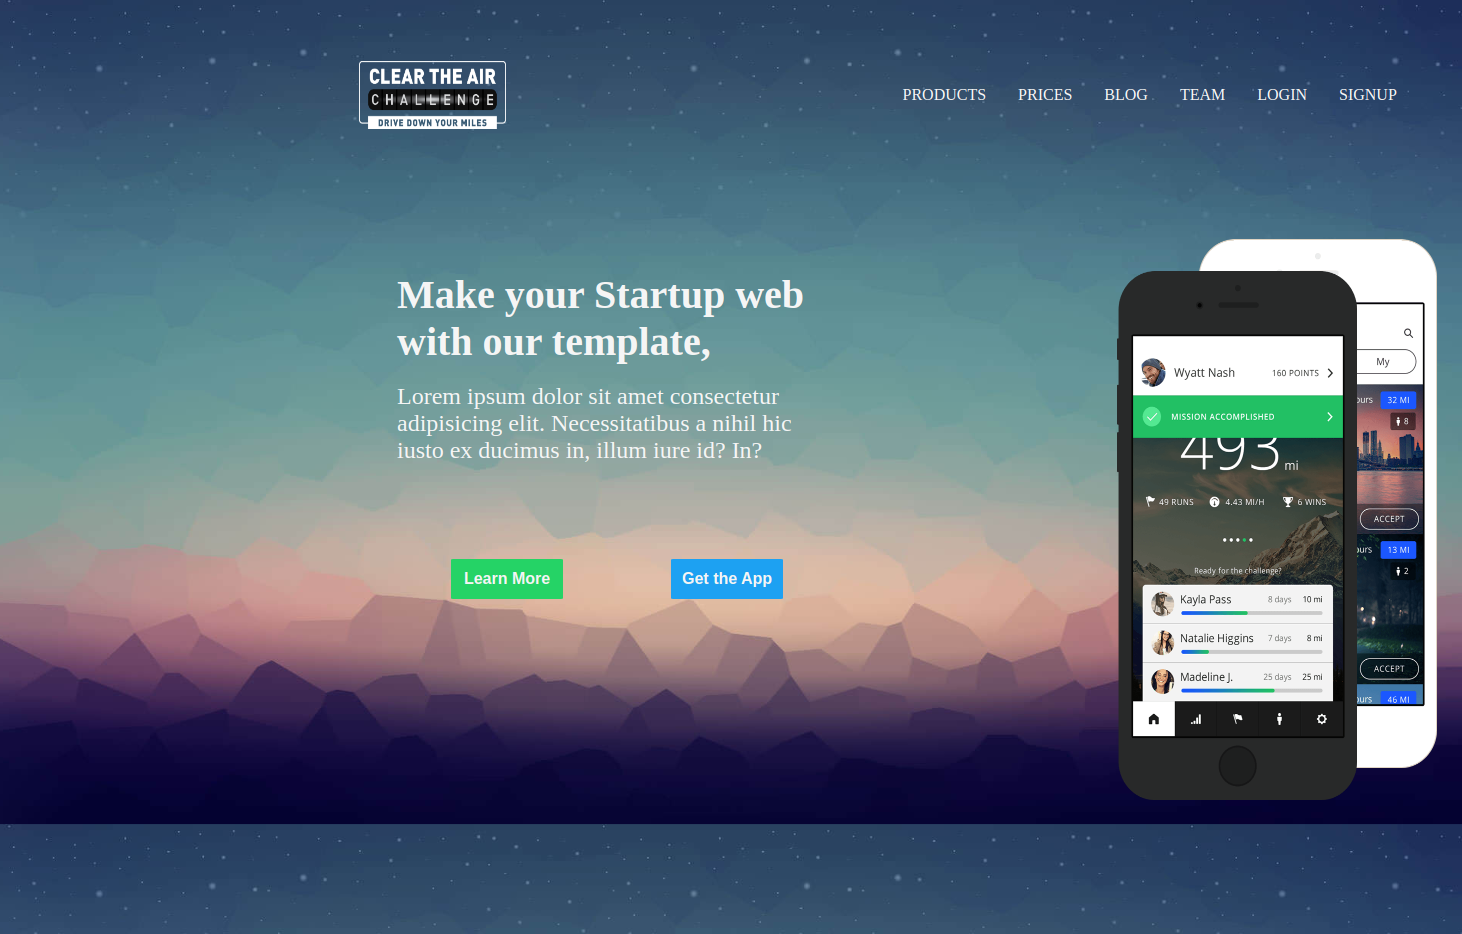
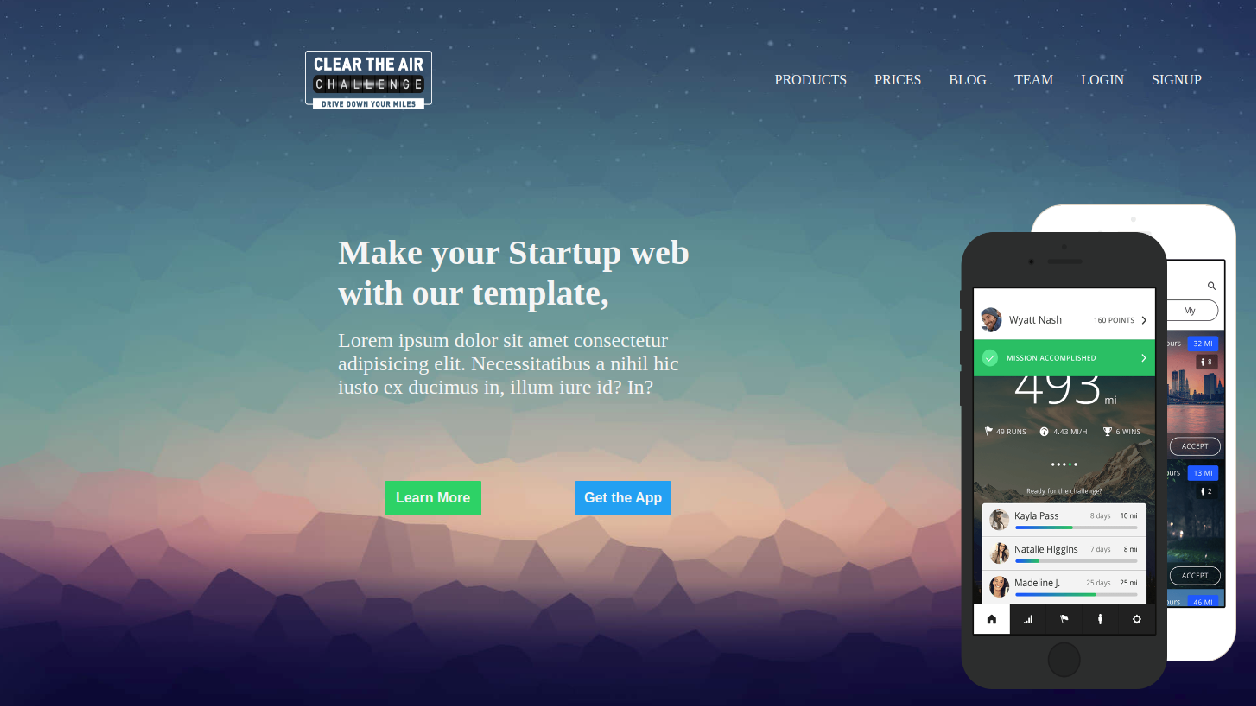
small details

diff --git a/src/scss/main.scss b/src/scss/main.scss
@@ -110,7 +110,8 @@ body {
   height: fit-content;
   margin: auto;
 }
-.info, p {
+.info {
+  p {
   font-size: 12px;
   font-family: $font-principal;
   font-weight:600;
@@ -119,9 +120,12 @@ body {
   line-height: 20px;
   justify-content: center;
   text-align: center;
+  }
 }
-.info a:hover {
-  color: $background-left;
+.info {
+  a:hover {
+    color: $background-left;
+  }
 }
 h1 {
   font-size: 22px;
@@ -269,6 +273,10 @@ h1 {
     width: 350px;
     height: auto;
     display: block;
+    margin: auto;
+  }
+  .text {
+    width: 50vw;
     margin: auto;
   }
   .text, a {

diff --git a/src/mobile.html b/src/mobile.html
@@ -34,8 +34,8 @@
         <h1>Mobile-app</h1>
         <p>Is a project to recreate a homepage with HTML5 and CSS3. Using flexbox and variables. This project is static, meaning, there are no working buttons.
         <br>
-
-        <a href="https://luciapannunzio.github.io/Mobile-app/">Test this app yourself</a></p>
+        <br>
+       <a href="https://luciapannunzio.github.io/Mobile-app/">Test this app yourself</a></p>
       </div>
     
      <!-- Custom scripts, edit above this line -->
